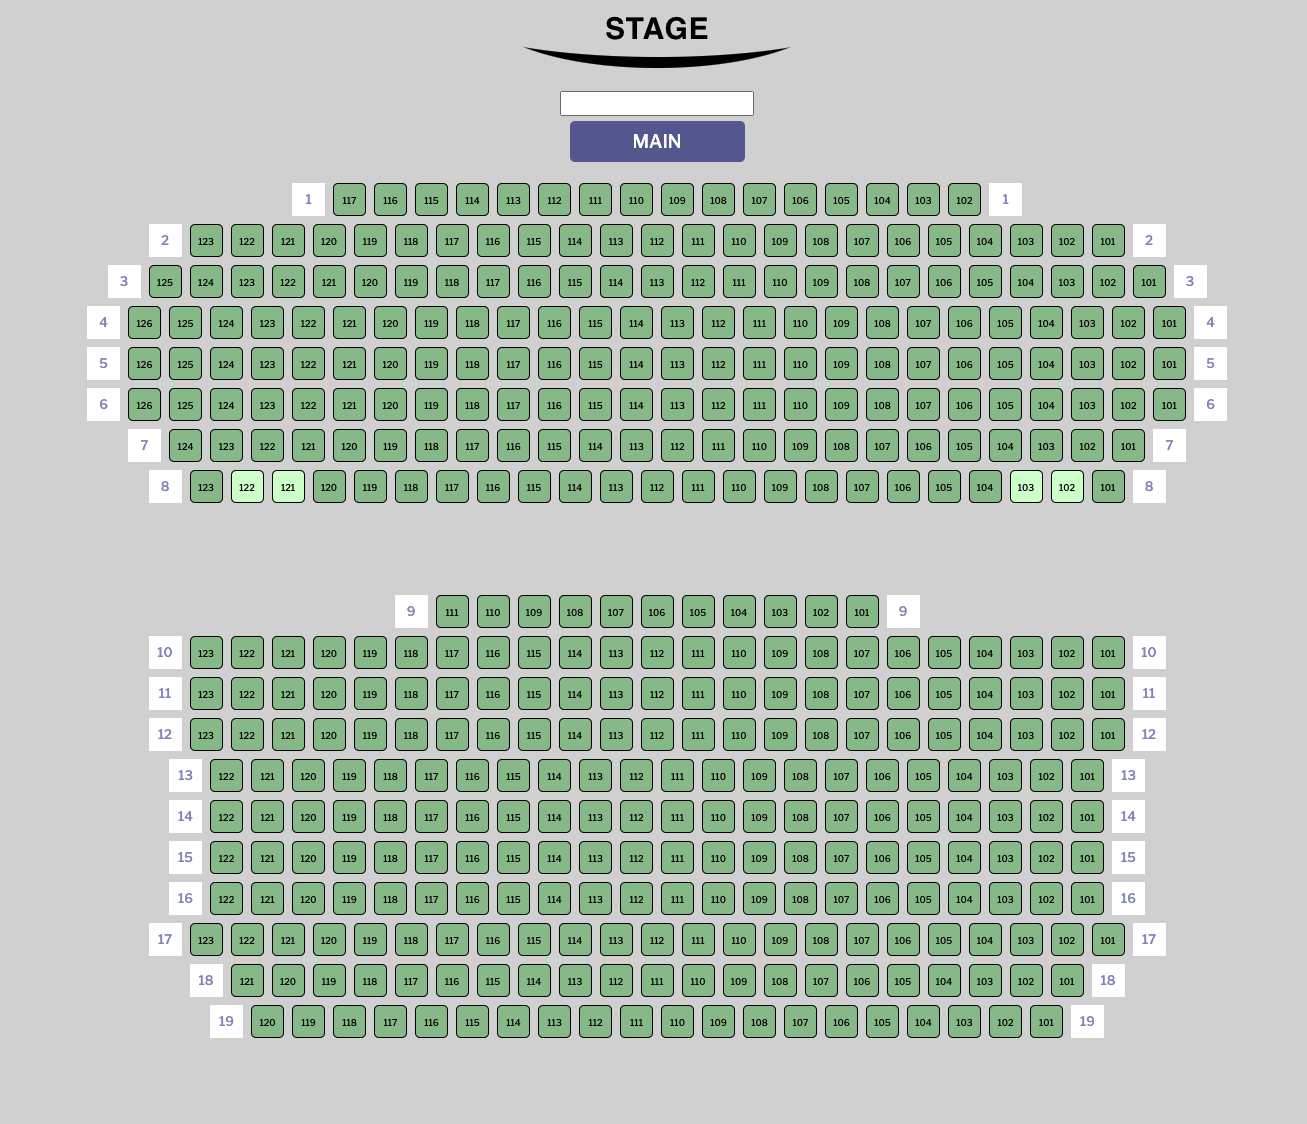
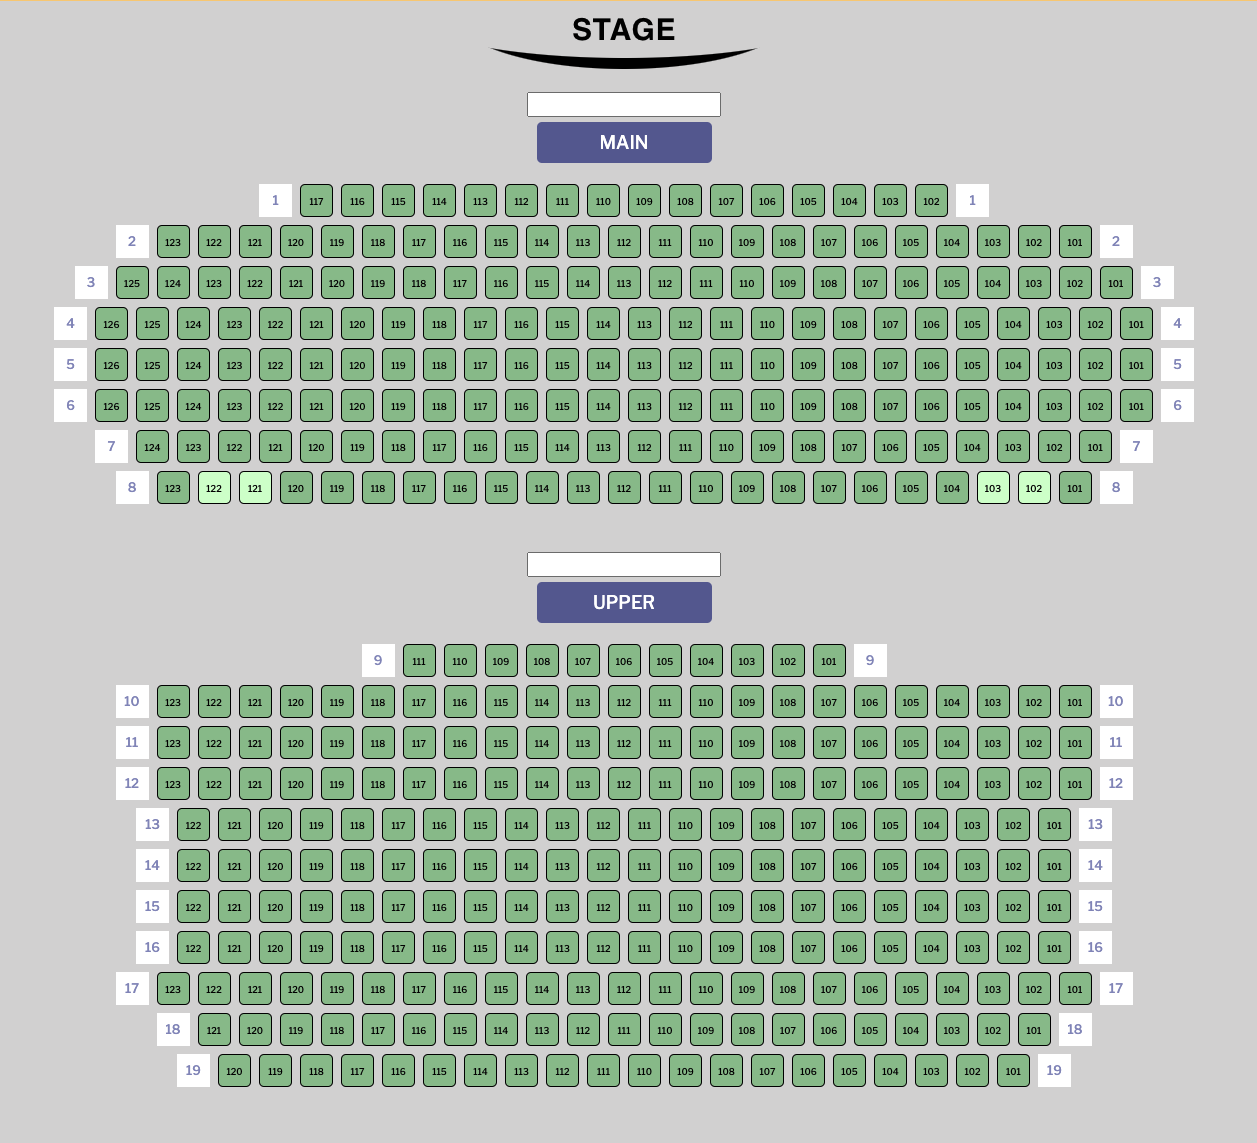
new venues

diff --git a/Completed/33915.html b/Completed/33915.html
@@ -31,13 +31,12 @@
     <td>
       <div align="center">
         <table align="center">
-          <!-- Names -->
+          <!-- Front Names -->
           <tr>
             <td>
               <div align="center">{{{ sectionNames.44977 }}}</div>
             </td>
           </tr>
-
           <!-- Front Seats -->
           <tr>
             <td>
@@ -51,12 +50,18 @@
                 <img
                   src="https://s3.amazonaws.com/prdv2-dt-client/seating_images/pixel.png"
                   width="1"
-                  height="80"
+                  height="40"
                 />
               </div>
             </td>
           </tr>
 
+          <!-- Back Names -->
+          <tr>
+            <td>
+              <div align="center">{{{ sectionNames.44978 }}}</div>
+            </td>
+          </tr>
           <!-- Back Seats -->
           <tr>
             <td>
